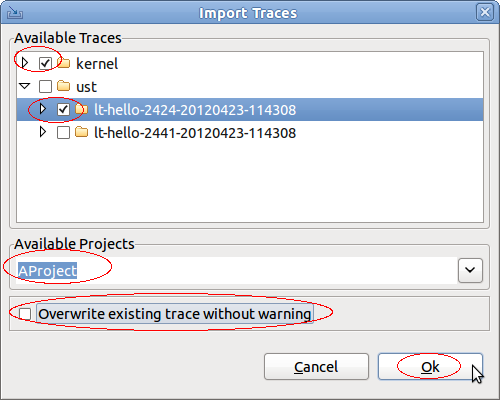
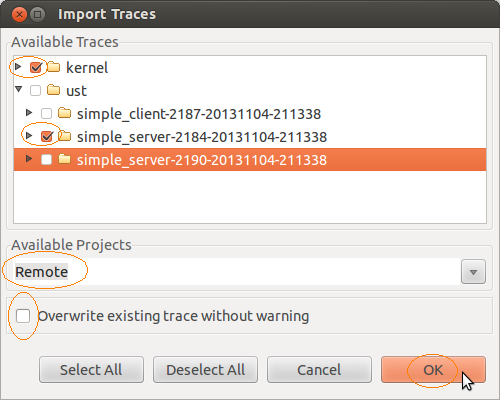
lttng: Add possibility to select/deselect all in remote import dialog
IP-Clean: Marc-Andre Laperle <marc-andre.laperle@ericsson.com>

diff --git a/lttng/org.eclipse.linuxtools.lttng2.ui/src/org/eclipse/linuxtools/internal/lttng2/ui/views/control/dialogs/ImportDialog.java b/lttng/org.eclipse.linuxtools.lttng2.ui/src/org/eclipse/linuxtools/internal/lttng2/ui/views/control/dialogs/ImportDialog.java
@@ -38,6 +38,8 @@ import org.eclipse.rse.subsystems.files.core.servicesubsystem.IFileServiceSubSys
 import org.eclipse.rse.subsystems.files.core.subsystems.IRemoteFile;
 import org.eclipse.swt.SWT;
 import org.eclipse.swt.custom.CCombo;
+import org.eclipse.swt.events.SelectionAdapter;
+import org.eclipse.swt.events.SelectionEvent;
 import org.eclipse.swt.graphics.Point;
 import org.eclipse.swt.layout.GridData;
 import org.eclipse.swt.layout.GridLayout;
@@ -119,6 +121,10 @@ public class ImportDialog extends Dialog implements IImportDialog {
      * Flag to indicate that something went wrong when creating the dialog box.
      */
     private boolean fIsError = false;
+    /**
+     * Children of the remote folder (can be null)
+     */
+    private Object[] fFolderChildren = null;
 
     // ------------------------------------------------------------------------
     // Constructors
@@ -189,8 +195,24 @@ public class ImportDialog extends Dialog implements IImportDialog {
 
     @Override
     protected void createButtonsForButtonBar(Composite parent) {
-        createButton(parent, IDialogConstants.CANCEL_ID, "&Cancel", true); //$NON-NLS-1$
-        createButton(parent, IDialogConstants.OK_ID, "&Ok", true); //$NON-NLS-1$
+        Button selectAllButton = createButton(parent, IDialogConstants.SELECT_ALL_ID, Messages.TraceControl_ImportDialog_SelectAll, true);
+        selectAllButton.addSelectionListener(new SelectionAdapter() {
+            @Override
+            public void widgetSelected(SelectionEvent e) {
+                setFolderChildrenChecked(true);
+            }
+        });
+
+        Button deselectAllButton = createButton(parent, IDialogConstants.DESELECT_ALL_ID, Messages.TraceControl_ImportDialog_DeselectAll, true);
+        deselectAllButton.addSelectionListener(new SelectionAdapter() {
+            @Override
+            public void widgetSelected(SelectionEvent e) {
+                setFolderChildrenChecked(false);
+            }
+        });
+        createButton(parent, IDialogConstants.CANCEL_ID, IDialogConstants.CANCEL_LABEL, true);
+        createButton(parent, IDialogConstants.OK_ID, IDialogConstants.OK_LABEL, true);
+        updateOKButtonEnablement();
     }
 
     @Override
@@ -345,7 +367,7 @@ public class ImportDialog extends Dialog implements IImportDialog {
         // make sure that remote directory is read and not cached
         remoteFolder.markStale(true, true);
 
-        fFolderViewer = new CheckboxTreeViewer(contextGroup, SWT.BORDER);
+        fFolderViewer = new CheckboxTreeViewer(contextGroup, SWT.BORDER | SWT.V_SCROLL | SWT.H_SCROLL);
         GridData data = new GridData(GridData.FILL_BOTH);
         Tree tree = fFolderViewer.getTree();
         tree.setLayoutData(data);
@@ -365,26 +387,22 @@ public class ImportDialog extends Dialog implements IImportDialog {
                         // A trick to keep selection of a file in sync with the directory
                         boolean p = fFolderViewer.getChecked((element.getParentRemoteFile()));
                         fFolderViewer.setChecked(element, p);
-                        return;
+                    } else {
+                        fFolderViewer.setSubtreeChecked(event.getElement(), event.getChecked());
+                        if (!event.getChecked()) {
+                            fFolderViewer.setChecked(element.getParentRemoteFile(), false);
+                        }
                     }
-                    fFolderViewer.setSubtreeChecked(event.getElement(), event.getChecked());
-                    if (!event.getChecked()) {
-                        fFolderViewer.setChecked(element.getParentRemoteFile(), false);
-                    }
+                    updateOKButtonEnablement();
                 }
             }
         });
         fFolderViewer.setInput(remoteFolder);
 
-        Object[] children = remoteFolder.getContents(RemoteChildrenContentsType.getInstance());
+        fFolderChildren = remoteFolder.getContents(RemoteChildrenContentsType.getInstance());
         // children can be null if there the path doesn't exist. This happens when a trace
         // session hadn't been started and no output was created.
-        if (children != null) {
-            // Select all traces by default
-            for (int i = 0; i < children.length; i++) {
-                fFolderViewer.setSubtreeChecked(children[i], true);
-            }
-        }
+        setFolderChildrenChecked(true);
 
         Group projectGroup = new Group(fDialogComposite, SWT.SHADOW_NONE);
         projectGroup.setText(Messages.TraceControl_ImportDialogProjectsGroupName);
@@ -420,4 +438,20 @@ public class ImportDialog extends Dialog implements IImportDialog {
         getShell().setMinimumSize(new Point(500, 400));
     }
 
+    private void setFolderChildrenChecked(boolean isChecked) {
+        if (fFolderChildren != null) {
+            for (Object child : fFolderChildren) {
+                fFolderViewer.setSubtreeChecked(child, isChecked);
+            }
+        }
+        updateOKButtonEnablement();
+    }
+
+    private void updateOKButtonEnablement() {
+        Object[] checked = fFolderViewer.getCheckedElements();
+        Button okButton = getButton(IDialogConstants.OK_ID);
+        if (okButton != null) {
+            okButton.setEnabled(checked.length > 0);
+        }
+    }
  }

diff --git a/lttng/org.eclipse.linuxtools.lttng2.ui/src/org/eclipse/linuxtools/internal/lttng2/ui/views/control/messages/Messages.java b/lttng/org.eclipse.linuxtools.lttng2.ui/src/org/eclipse/linuxtools/internal/lttng2/ui/views/control/messages/Messages.java
@@ -216,6 +216,8 @@ final public class Messages extends NLS {
     public static String TraceControl_ImportDialogNoProjectSelectedError;
     public static String TraceControl_ImportDialogInvalidTracingProject;
     public static String TraceControl_ImportDialogNoTraceSelectedError;
+    public static String TraceControl_ImportDialog_SelectAll;
+    public static String TraceControl_ImportDialog_DeselectAll;
 
     public static String TraceControl_ImportDialogConfirmationTitle;
     public static String TraceControl_ImportDialogConfirmationOverwriteLabel;
